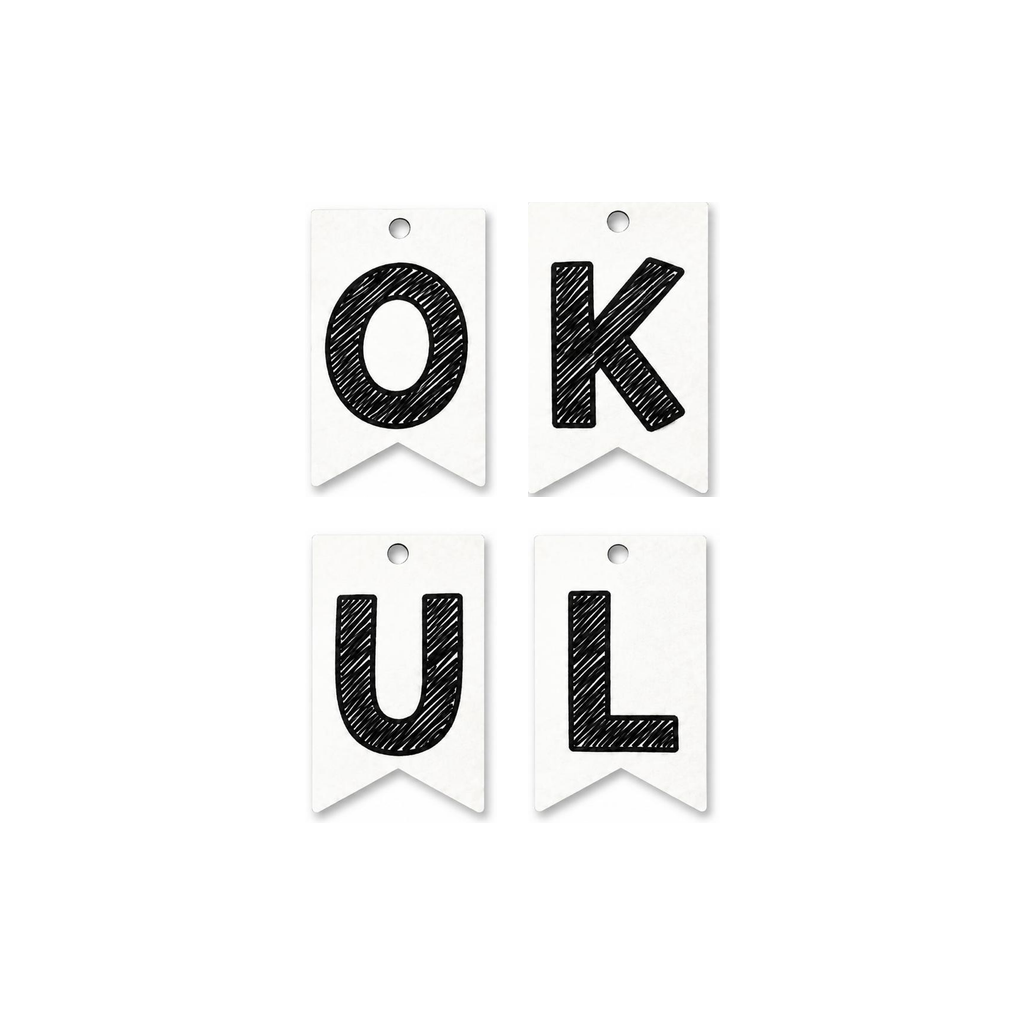
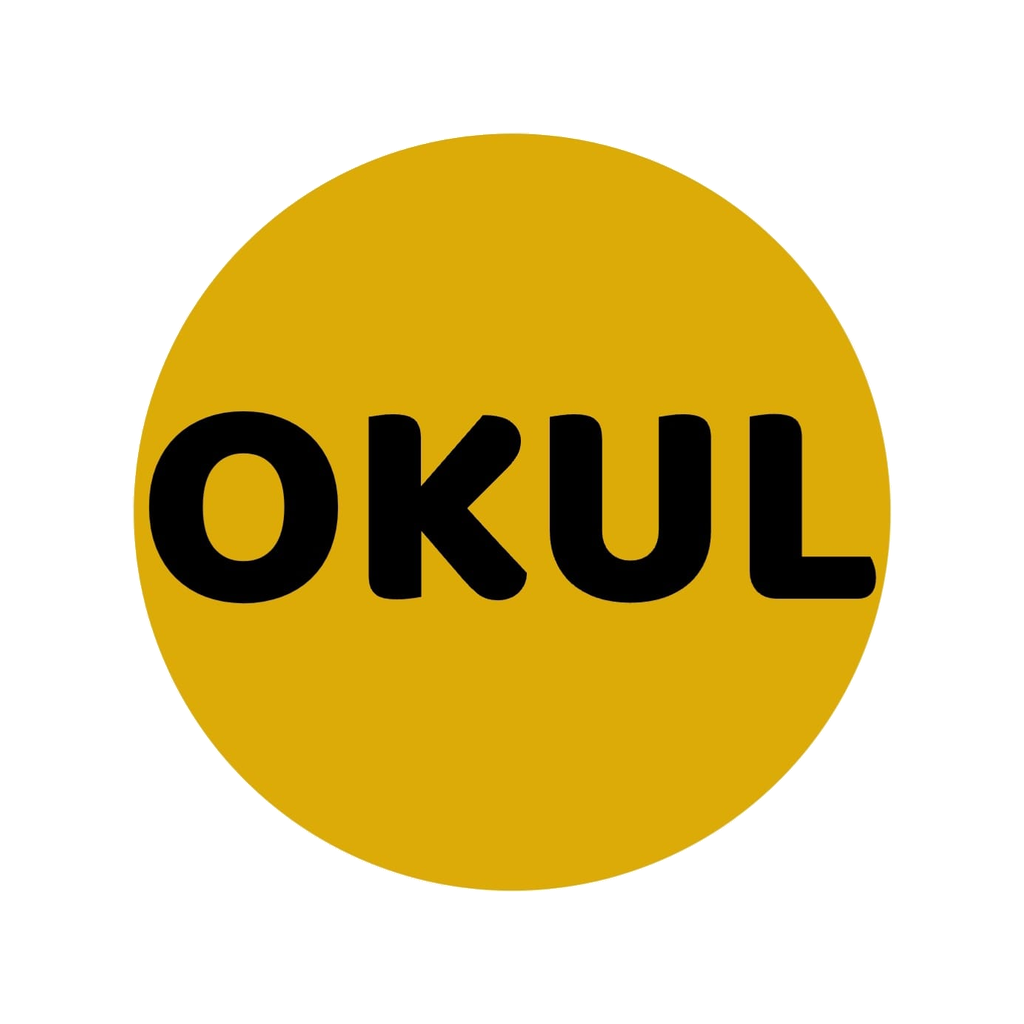
Uygulama ikonu yeni OKUL logosu; ana sayfadaki beyaz OKUL yazisi eski haline geri getirildi
- icon.png / adaptive-icon.png / splash.png / favicon.png: sari daire + siyah OKUL
- assets/logo.png (ana bant) eski beyaz karakalem yazi olarak korundu
- Ikon degisikligi telefonda yeni derleme ile gorunur

diff --git a/src/screens/teacher/TeacherHomeScreen.js b/src/screens/teacher/TeacherHomeScreen.js
@@ -571,7 +571,7 @@ const st = StyleSheet.create({
   hero: { paddingHorizontal: spacing.lg, paddingBottom: spacing.md, overflow: 'hidden', borderBottomLeftRadius: 28, borderBottomRightRadius: 28 },
   blob: { position: 'absolute', borderRadius: 999, backgroundColor: 'rgba(255,255,255,0.10)' },
   heroTop: { flexDirection: 'row', alignItems: 'center' },
-  logo: { height: 34, width: Math.round((34 * 669) / 200) }, // assets/logo.png (beyaz harfler) oranı 669×200
+  logo: { height: 34, width: Math.round((34 * 669) / 200) }, // assets/logo.png (beyaz karakalem OKUL) 669×200
   logoText: { fontSize: 30, fontWeight: '900', letterSpacing: 3 },
   heroDate: { color: '#fff', fontSize: font.h3, fontWeight: '900', marginTop: spacing.sm },
   // Branş: profil/ayarlar ikonlarının hemen altında, sağa yaslı sabit yazı.
